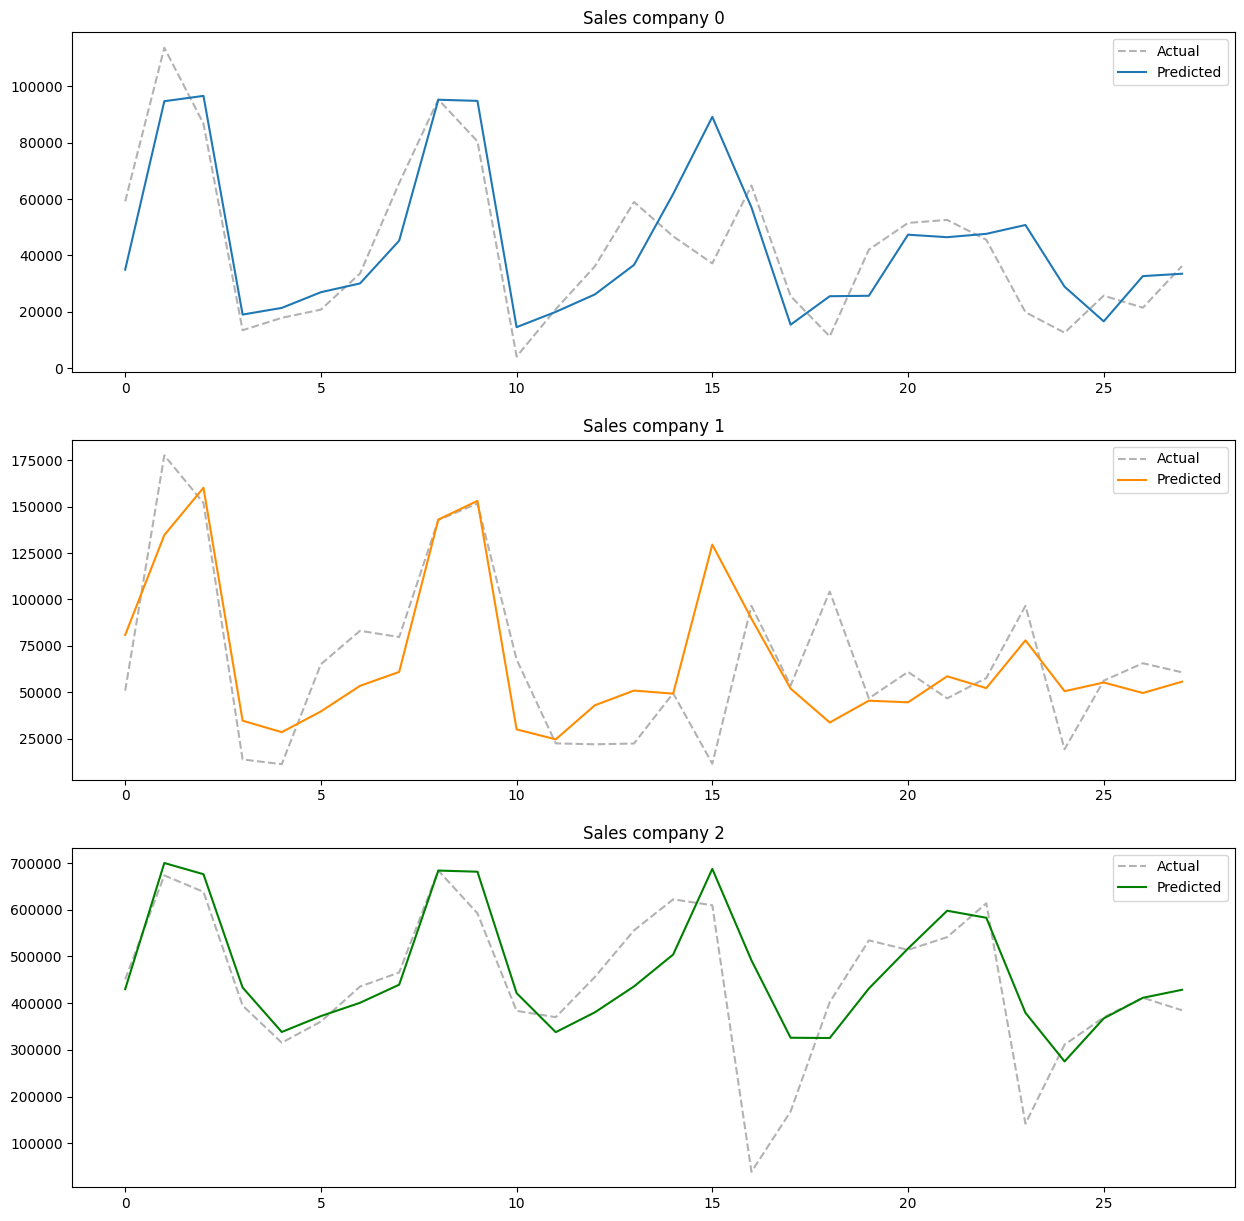
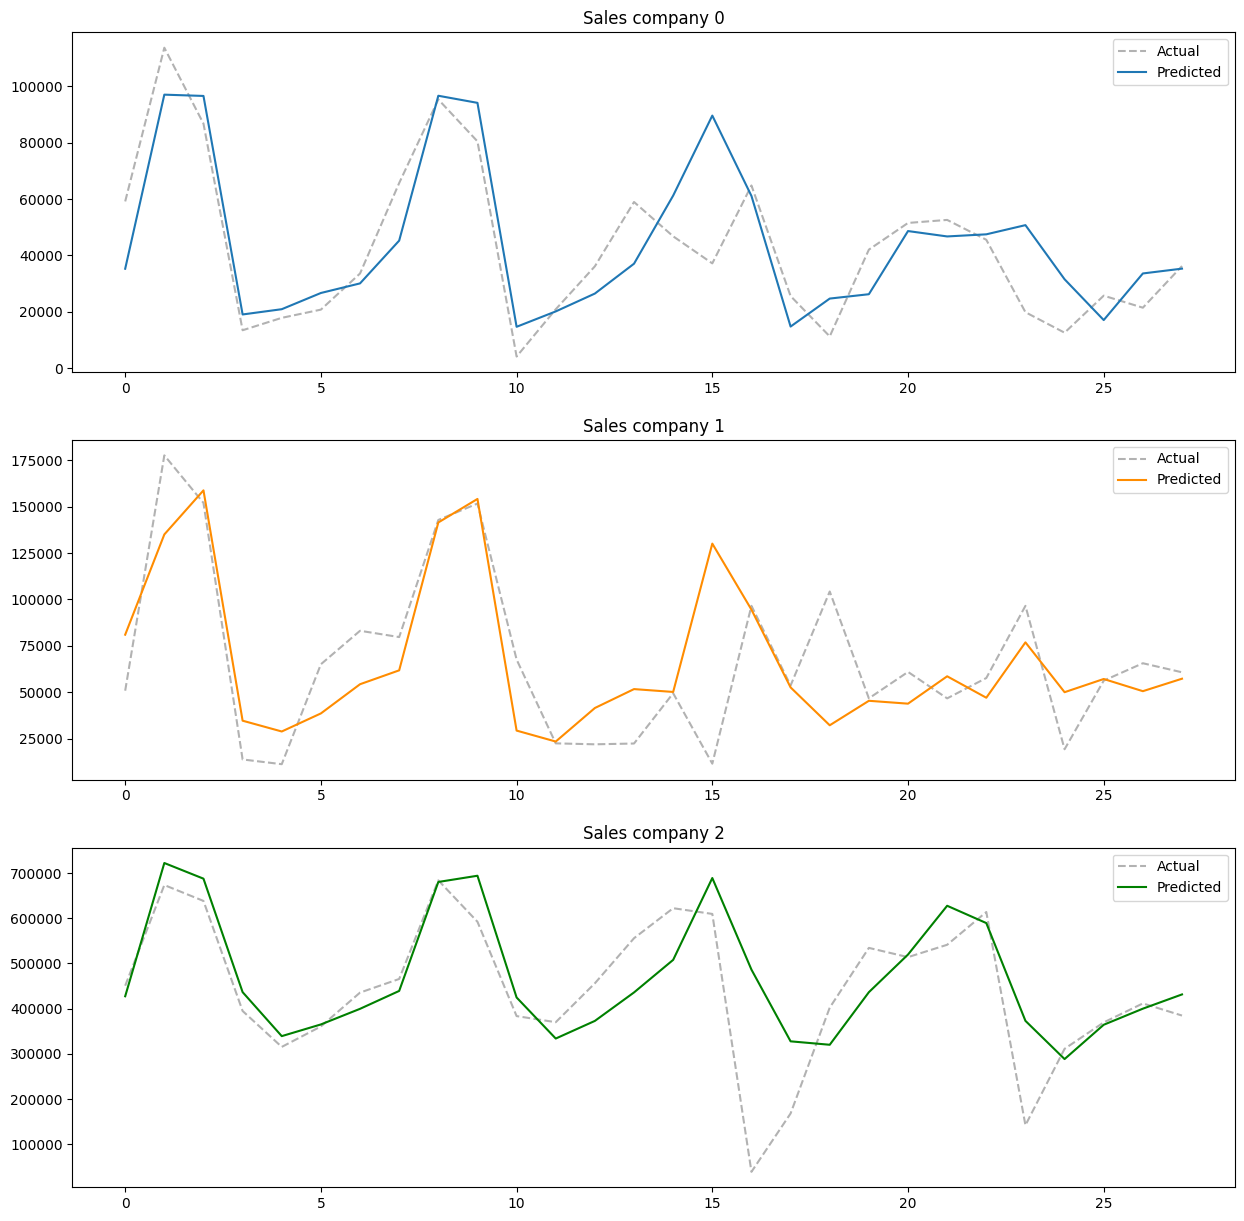
Easier forecast

diff --git a/Models/Helpers/model.py b/Models/Helpers/model.py
@@ -70,46 +70,37 @@ def plot(df, name):
 
 
 def forecast(model, name):
-    df = pd.read_csv("caspecoHistoricalDataProcessed.csv")
+    df_historical = pd.read_csv("caspecoHistoricalDataProcessed.csv").tail(n = 21*3) # 21 days
     df_predict = pd.read_csv("caspecoTestRangeProcessed.csv")
 
-    df["SalesScaledLastDay"] = df.groupby("Company")["SalesScaled"].shift(1)
-    df["SalesScaledLastWeek"] = df.groupby("Company")["SalesScaled"].shift(7)
-    df["SalesRollingMeanWeek"] = df.groupby("Company")["SalesScaled"].shift(1).rolling(7).mean().reset_index(0, drop = True)
-    df["SalesRollingMean2Week"] = df.groupby("Company")["SalesScaled"].shift(1).rolling(14).mean().reset_index(0, drop = True)
-
-    df = df.tail(n = 21*3)
-
-    df = pd.concat([df, df_predict])
-
-    # print(df)
+    df = pd.concat([df_historical, df_predict])
 
     for i in range(15):
         # predict 15 times
-        for company in range(3):
-            row = df[df["Company"] == company].head(21 + i + 1).tail(1)
-            # row = df.loc[(df["Date"] == row["Date"].values[0]) & (df["Company"] == row["Company"].values[0]), :]
 
-            row["SalesScaledLastDay"] = df[df["Company"] == company].head(21 + i + 1 - 1).tail(1)["SalesScaled"].values
-            row["SalesScaledLastWeek"] = df[df["Company"] == company].head(21 + i + 1 - 7).tail(1)["SalesScaled"].values
-            row["SalesRollingMeanWeek"] = df[df["Company"] == company].head(21 + i + 1 - 7).tail(7)["SalesScaled"].mean()
-            row["SalesRollingMean2Week"] = df[df["Company"] == company].head(21 + i + 1 - 14).tail(14)["SalesScaled"].mean()
+        # add lag features
+        df["SalesScaledLastDay"] = df.groupby("Company")["SalesScaled"].shift(1)
+        df["SalesScaledLastWeek"] = df.groupby("Company")["SalesScaled"].shift(7)
+        df["SalesRollingMeanWeek"] = df.groupby("Company")["SalesScaled"].shift(1).rolling(7).mean()
+        df["SalesRollingMean2Week"] = df.groupby("Company")["SalesScaled"].shift(1).rolling(14).mean()
+
+        date = f"2023-01-{str(5+i).zfill(2)}"
+
+        for company in range(3):
+            # get the row to forecast
+            # row = df[df["Company"] == company].head(21 + i + 1).tail(1)
+            row = df[(df["Date"] == date) & (df["Company"] == company)]
 
             y_pred = model.predict(get_train_vars_df(row))[0]
 
             # row["SalesScaled"] = y_pred
             # df.iloc[21*3 + i*3 + company, "SalesScaled"] = y_pred
-            df.loc[(df["Date"] == row["Date"].values[0]) & (df["Company"] == row["Company"].values[0]), "SalesScaled"] = y_pred
+            df.loc[(df["Date"] == date) & (df["Company"] == company), "SalesScaled"] = y_pred
             # row["SalesScaled"] = y_pred
     
-    predicted_df = df.tail(15*3).copy()
+    out_df = df.tail(15*3).copy()
 
-    # predicted_df.insert(len(predicted_df.columns), "Sales", predicted_df.apply(lambda row: calculate_prediction_sales(row, columns=["SalesScaled"]), axis = "columns",  result_type='expand'))
+    out_df["Sales"] = out_df.apply(lambda row: calculate_prediction_sales(row, columns=["SalesScaled"]), axis = "columns",  result_type='expand')
+    out_df["ID"] = out_df["Date"] + "_" + out_df["Company"].astype(str)
 
-    predicted_df["Sales"] = predicted_df.apply(lambda row: calculate_prediction_sales(row, columns=["SalesScaled"]), axis = "columns",  result_type='expand')
-    predicted_df["ID"] = predicted_df["Date"] + "_" + predicted_df["Company"].astype(str)
-
-    print(predicted_df["ID"])
-    predicted_df.to_csv(f"Output/Forecast/CSV/{name}.csv", sep = ",", index = False, columns = ['ID', 'Sales'])
-
-    # print(predicted_df.tail(15*3)["Sales"])
+    out_df.to_csv(f"Output/Forecast/CSV/{name}.csv", sep = ",", index = False, columns = ['ID', 'Sales'])

diff --git a/Models/RandomForest.py b/Models/RandomForest.py
@@ -19,8 +19,8 @@ df = pd.read_csv("caspecoHistoricalDataProcessed.csv")
 
 df["SalesScaledLastDay"] = df.groupby("Company")["SalesScaled"].shift(1)
 df["SalesScaledLastWeek"] = df.groupby("Company")["SalesScaled"].shift(7)
-df["SalesRollingMeanWeek"] = df.groupby("Company")["SalesScaled"].shift(1).rolling(7).mean().reset_index(0, drop = True)
-df["SalesRollingMean2Week"] = df.groupby("Company")["SalesScaled"].shift(1).rolling(14).mean().reset_index(0, drop = True)
+df["SalesRollingMeanWeek"] = df.groupby("Company")["SalesScaled"].shift(1).rolling(7).mean()
+df["SalesRollingMean2Week"] = df.groupby("Company")["SalesScaled"].shift(1).rolling(14).mean()
 
 df.dropna(inplace=True)
 
@@ -54,7 +54,7 @@ train_df, validation_df = split_df(df)
 
 # 5) Train on entire train_df using optimised hyper paramaters
 
-model = RandomForestRegressor(max_depth = 9, max_features =  0.30000000000000004, n_estimators =  500)
+model = RandomForestRegressor(max_depth = 9, max_features =  0.30000000000000004, n_estimators = 500, random_state = 8)
 model.fit(get_train_vars_df(train_df), train_df["SalesScaled"])
 
 

diff --git a/Models/Test.py b/Models/Test.py
@@ -1,8 +1,3 @@
-import pandas as pd
+from Helpers.model import forecast
 
-df = pd.DataFrame(data={
-    "Day": [0, 1, 2, 3, 4, 5, 6, 7],
-    "Sales": [0, 10, 20, 30, 40, 50, 60, 70]
-})
-
-print(df.shift(1).rolling(2).mean())
+forecast("test", "test")
